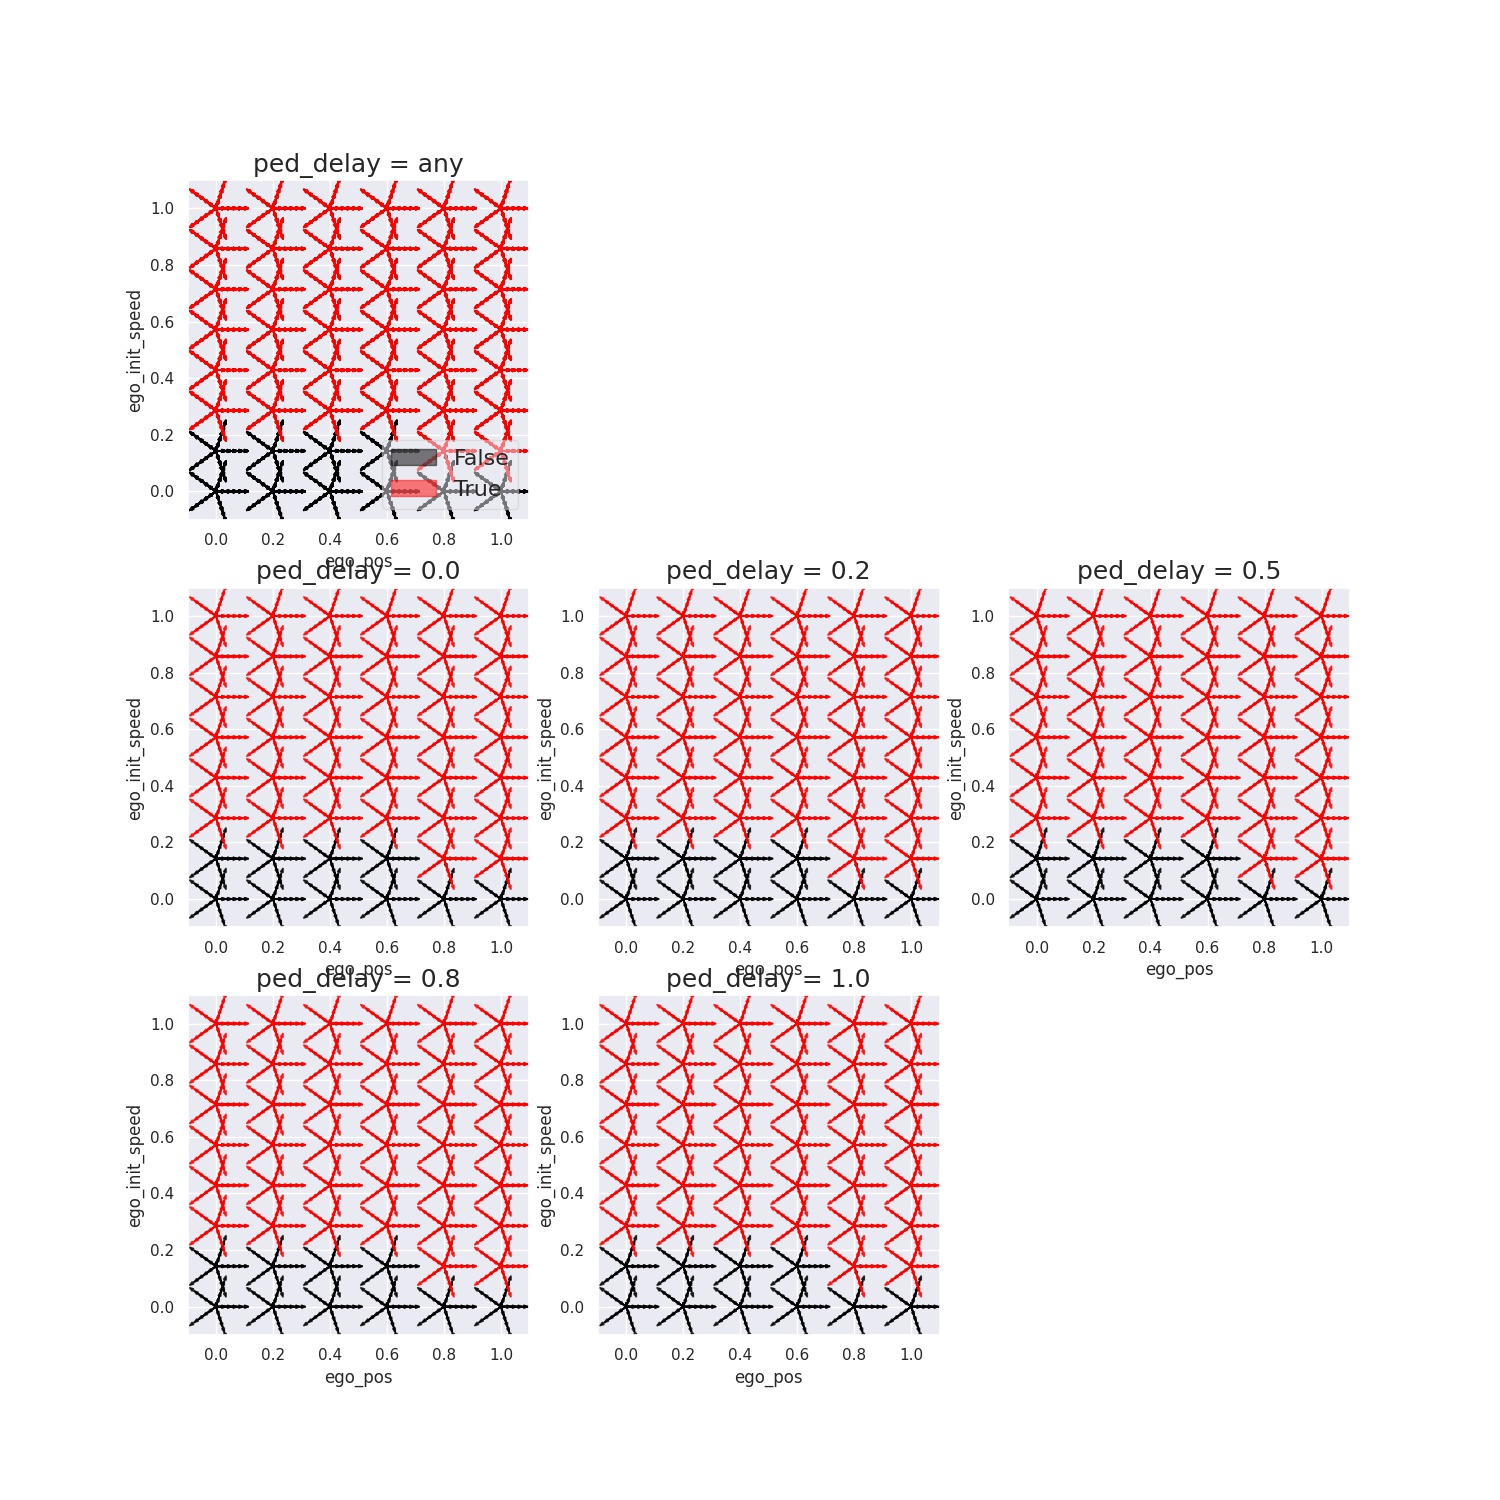
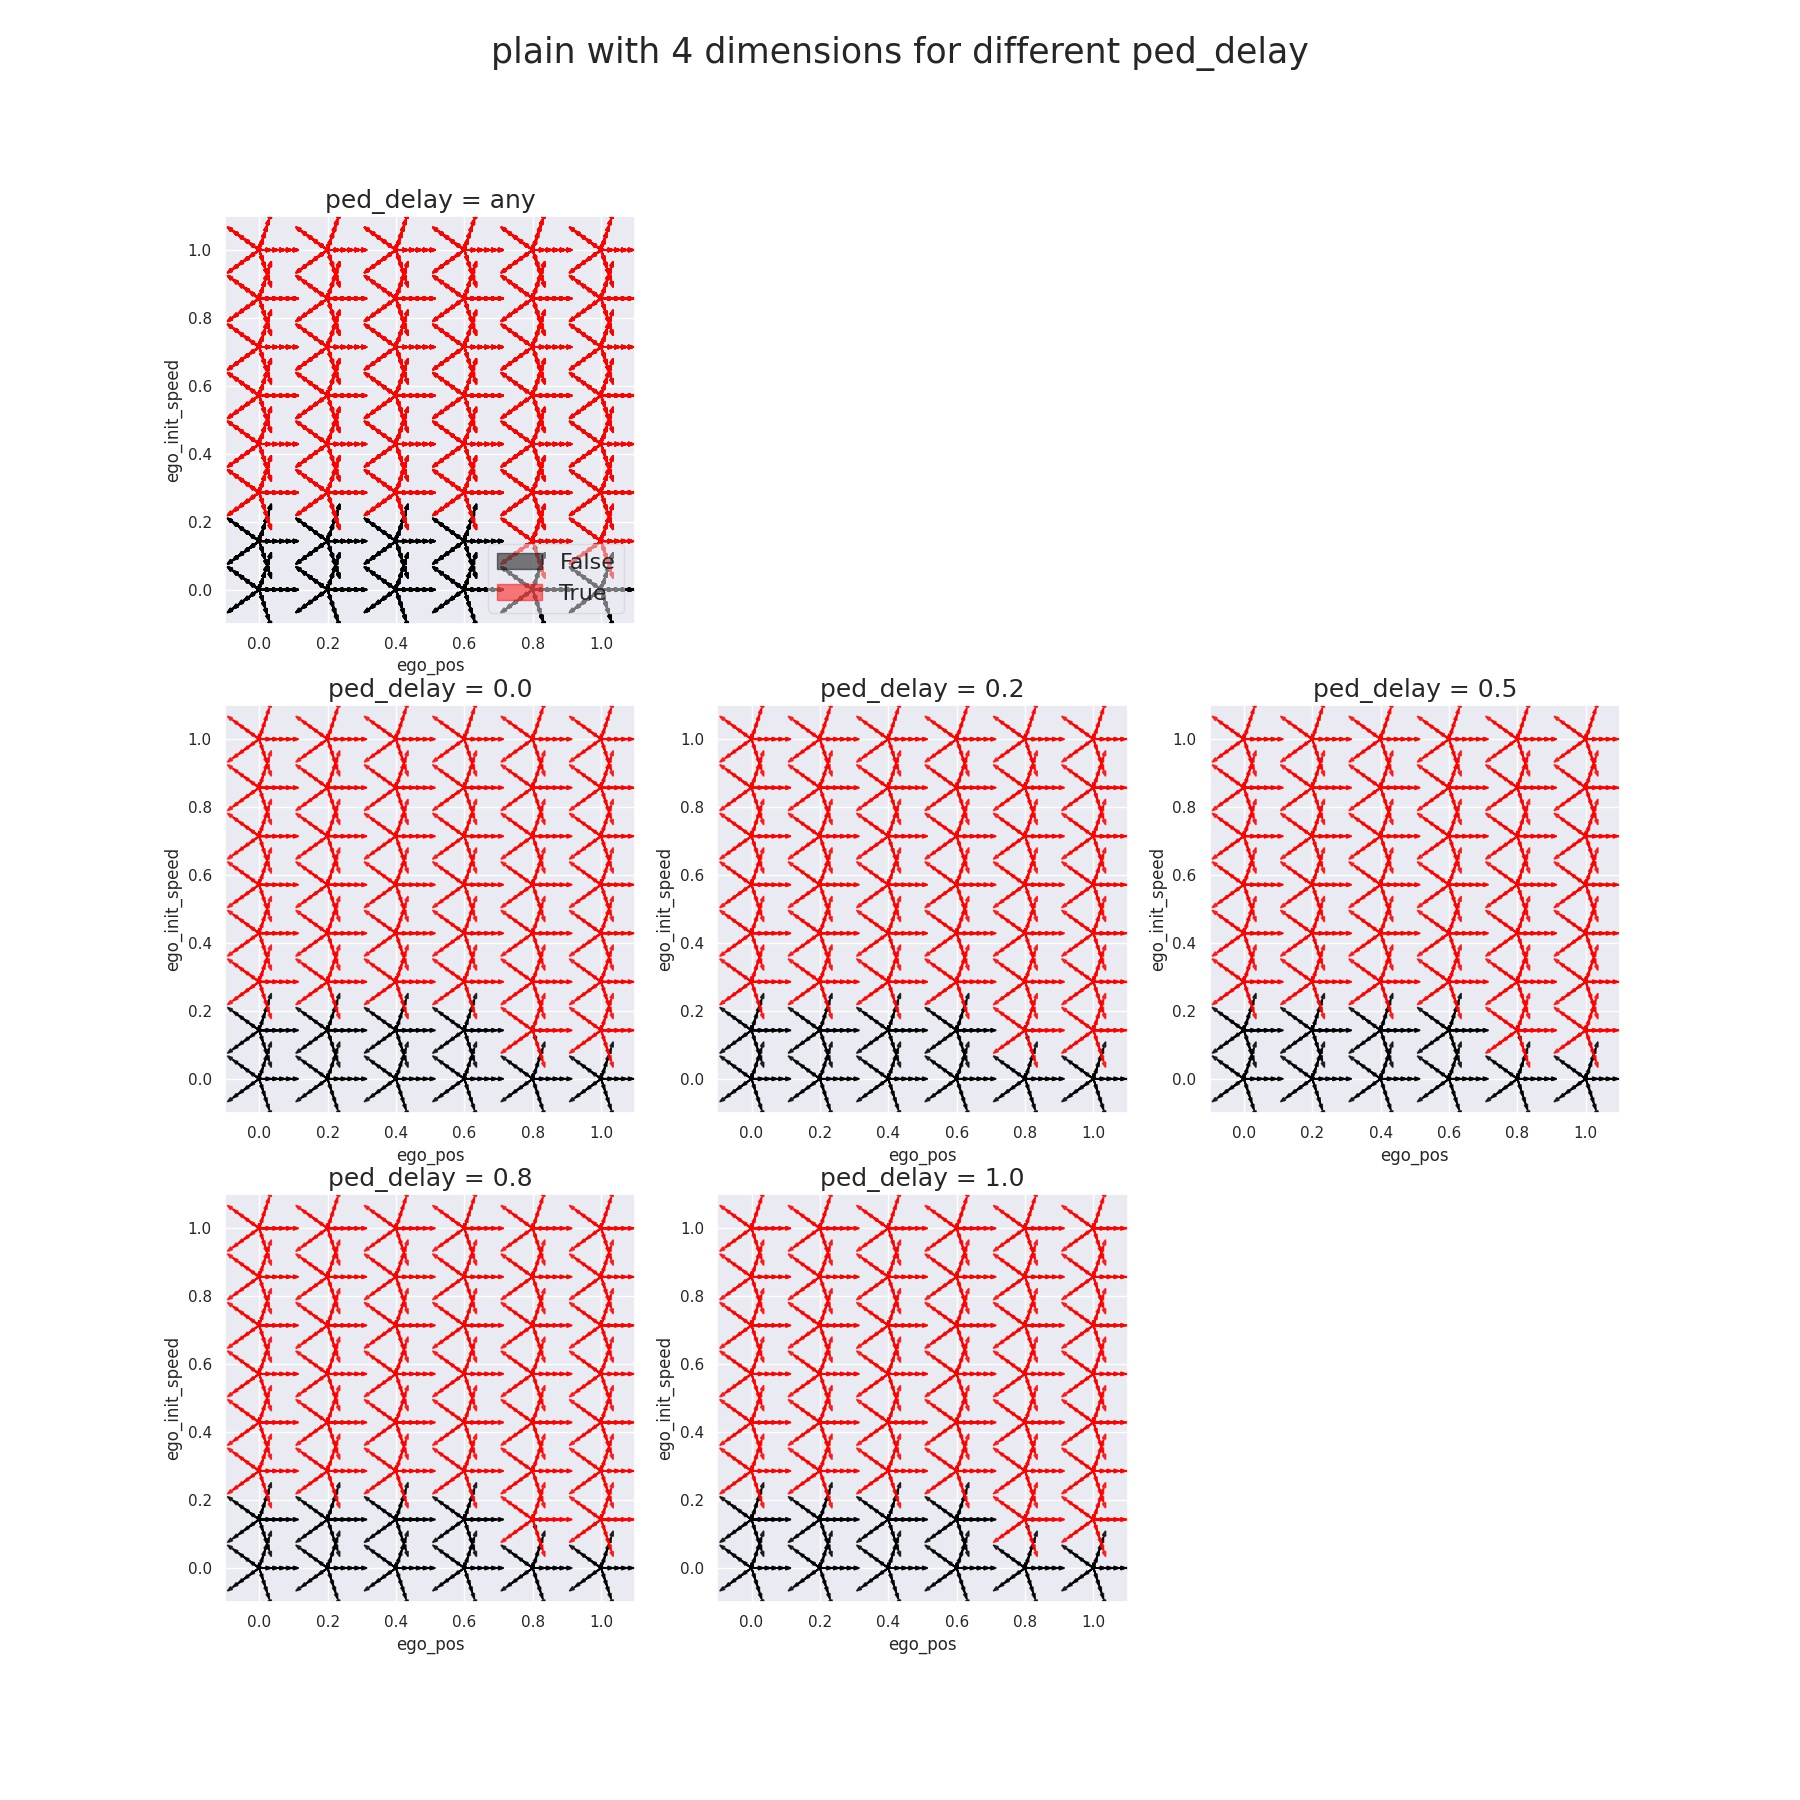
minor

diff --git a/analysis_utils/visualize.py b/analysis_utils/visualize.py
@@ -160,11 +160,11 @@ def extract_data_from_csv(folder_path, filename, x_labels, y_label):
 
 
 # -------------------- helper functions for visualize_data --------------------
-def visualize_data(save_folder_path, input_x_list, y_list, x_labels, num_subplots, mode, dim, chosen_labels, plot_dim, subplot_split_label=''):
+def visualize_data(save_folder_path, initial_x_list, y_list, x_labels, num_subplots, mode, dim, chosen_labels, plot_dim, subplot_split_label=''):
     # normalize the data first
     from sklearn.preprocessing import MinMaxScaler
-    transformer = MinMaxScaler().fit(input_x_list)
-    initial_x_list = transformer.transform(input_x_list)
+    transformer = MinMaxScaler().fit(initial_x_list)
+    x_list_normalized = transformer.transform(initial_x_list)
 
     if plot_dim == 3:
         assert dim == plot_dim
@@ -183,14 +183,14 @@ def visualize_data(save_folder_path, input_x_list, y_list, x_labels, num_subplot
 
 
         # dimensionality reduction is only used when input dimension is larger than the visualization dimension
-        assert initial_x_list.shape[1] > dim
+        assert x_list_normalized.shape[1] > dim
 
         if mode == 'pca':
             from sklearn.decomposition import PCA
             pca = PCA(n_components=dim, svd_solver='full')
-            pca.fit(initial_x_list)
+            pca.fit(x_list_normalized)
             print('dim', dim, 'pca.explained_variance_ratio_', pca.explained_variance_ratio_)
-            initial_x_list = pca.transform(initial_x_list)
+            x_list_normalized = pca.transform(x_list_normalized)
             inds_list = [i for i in range(dim)]
         elif mode == 'tsne':
             if plot_dim == 2:
@@ -198,26 +198,26 @@ def visualize_data(save_folder_path, input_x_list, y_list, x_labels, num_subplot
             elif plot_dim == 3:
                 assert dim == 3
             from sklearn.manifold import TSNE
-            print('initial_x_list.shape', initial_x_list.shape)
-            initial_x_list = TSNE(n_components=dim).fit_transform(initial_x_list)
+            print('x_list_normalized.shape', x_list_normalized.shape)
+            x_list_normalized = TSNE(n_components=dim).fit_transform(x_list_normalized)
             inds_list = [i for i in range(dim)]
         else:
             print('mode', mode)
             raise
 
     print('mode', mode, 'dim', dim, 'chosen_labels', chosen_labels)
-    print('initial_x_list.shape', initial_x_list.shape)
+    print('x_list_normalized.shape', x_list_normalized.shape)
     print('y_list.shape', y_list.shape)
 
-    x_list = initial_x_list[:, inds_list]
+    x_list = x_list_normalized[:, inds_list]
     unique_y_list = np.unique(y_list)
 
     if subplot_split_label:
-        v_list = np.unique(initial_x_list[:, split_ind])
+        v_list = np.unique(x_list_normalized[:, split_ind])
         num_subplots = len(v_list)
 
     assert num_subplots >= 1
-    assert initial_x_list.shape[0] >= num_subplots
+    assert x_list_normalized.shape[0] >= num_subplots
 
     num_subplots_col_num = int(np.ceil(np.sqrt(num_subplots)))
     num_subplots_row_num = int(np.ceil(num_subplots / num_subplots_col_num))
@@ -230,7 +230,8 @@ def visualize_data(save_folder_path, input_x_list, y_list, x_labels, num_subplot
     else:
         projection = '3d'
 
-    fig = plt.figure(figsize=(num_subplots_col_num*5, num_subplots_row_num*5))
+    unit_size = 6
+    fig = plt.figure(figsize=(num_subplots_col_num*unit_size, num_subplots_row_num*unit_size))
 
     # draw an overall plot
     ax = fig.add_subplot(num_subplots_col_num, num_subplots_row_num, 1, projection=projection)
@@ -243,8 +244,11 @@ def visualize_data(save_folder_path, input_x_list, y_list, x_labels, num_subplot
         for i, v in enumerate(v_list):
             ax = fig.add_subplot(num_subplots_col_num, num_subplots_row_num, i+num_subplots_col_num+1, projection=projection)
 
-            chosen_inds = np.where(initial_x_list[:, split_ind]==v)[0]
+            chosen_inds = np.where(x_list_normalized[:, split_ind]==v)[0]
+            print('v', v, 'len(chosen_inds)', len(chosen_inds), chosen_inds[:3])
             plot_subplot(ax, x_list, y_list, chosen_inds, unique_y_list, False, mode, chosen_labels, plot_dim, split_label_v_pair=(subplot_split_label, '{:.1f}'.format(v)))
+
+        fig.suptitle(mode+' with '+str(dim)+' dimensions for different '+subplot_split_label, fontsize=25)
 
     else:
         num_per_subplot = int(np.ceil(len(y_list) / num_subplots))

diff --git a/doc/visualization.md b/doc/visualization.md
@@ -40,7 +40,7 @@ plot_dim = 3
 subplot_split_label = ''
 ```
 
-For 2D split according to one chosen label,
+For 2D where we show the subplots for data points with the same value of `subplot_split_label`,
 
 ```
 num_subplots = 1
